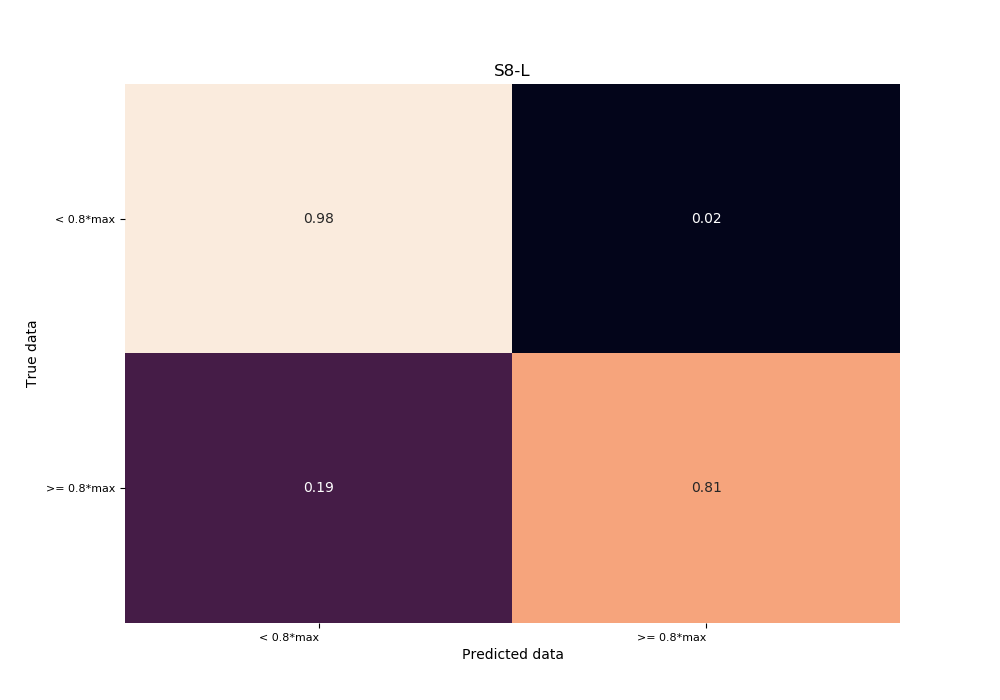
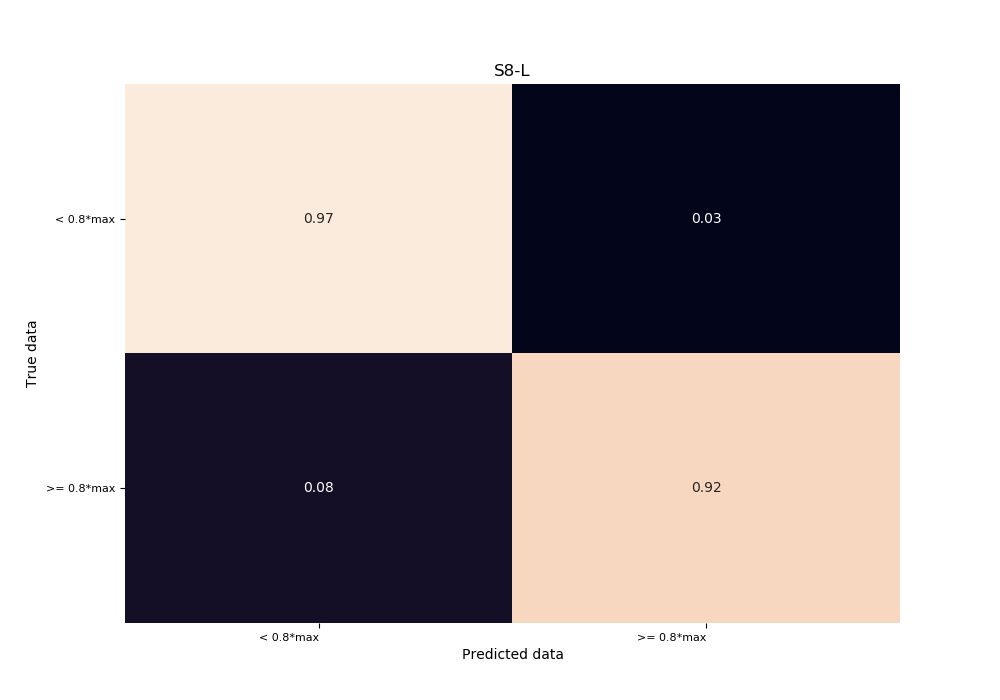
随机森林分左右脚模型训练和测试结果
训练模型使用60%作为训练集，40%作为测试集

Changed region(s): [[0.124, 0.48, 0.899, 0.9]]

diff --git a/confusionMat.py b/confusionMat.py
@@ -53,7 +53,7 @@ if __name__ == '__main__':
     testList = tempIotcols[0:24]
     lag = 0
     # names = ['S7','S8','S10','S11','S12','S16','S21','S22','S23','S26','S28','S29','S30','S31','S32','S33','S35','S37','S38','S39','S40','S41']
-    names = ['S28']
+    names = ['S41']
     feet = ['L','R']
 
     for name in names:
